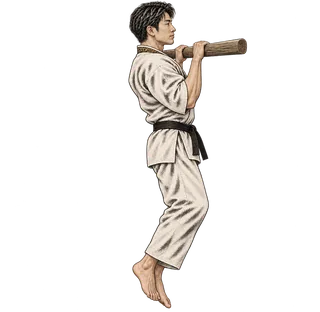
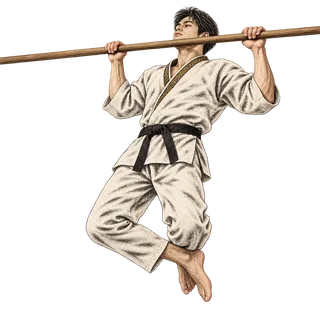
v0.16.5: 懸垂の絵を差し替え、御札・巻物を絵に、休息画面に夜の寺の背景
Claude-Session: https://claude.ai/code/session_01KcNjAAMXczDP8kvpzxopU7

Changed region(s): [[0.0, 0.0, 1.0, 1.0]]

diff --git a/index.html b/index.html
@@ -348,7 +348,7 @@
   .tbtn:active{ transform:scale(.94); }
   .done-today{ text-align:center;padding:14px;border-radius:16px;background:rgba(134,181,115,.12);border:1px solid rgba(134,181,115,.35);color:var(--matsu);font-weight:700;font-size:14px; }
   /* 休息アニメ */
-  #restFx{ position:fixed;inset:0;z-index:88;display:none;flex-direction:column;align-items:center;justify-content:center;gap:20px;background:radial-gradient(circle at 50% 40%,#1a2228,#101418 75%);color:var(--washi); }
+  #restFx{ position:fixed;inset:0;z-index:88;display:none;flex-direction:column;align-items:center;justify-content:flex-end;gap:18px;padding:0 24px calc(48px + env(safe-area-inset-bottom));background:linear-gradient(180deg,rgba(10,12,16,0) 40%,rgba(10,12,16,.85) 70%,#0a0c10 100%),url(images/rest.jpg) center top/cover,#0a0c10;color:var(--washi); }
   #restFx .moon{ font-size:78px;animation:floaty 4s ease-in-out infinite; }
   @keyframes floaty{ 0%,100%{transform:translateY(0);}50%{transform:translateY(-12px);} }
   #restFx .zzz{ font-family:var(--serif);font-size:26px;font-weight:800;letter-spacing:.2em;color:var(--ai); }
@@ -743,12 +743,15 @@ let hasNewReact=true; // 未確認の通知があるか
 // 印：月別（アプリ開始月から自動追加、クリアしたらカラー）※recompute()で記録から作る
 let STAMPS=[];
 // 巻物：取得分だけ表示、条件は最初から見える
+// 御札・巻物の絵（文字の大きさに合わせて表示）
+const FUDA=`<img src="images/fuda.webp" alt="御札" style="width:1em;height:1em;object-fit:contain;vertical-align:-.15em">`;
+const MAKI=`<img src="images/makimono.webp" alt="巻物" style="width:1em;height:1em;object-fit:contain;vertical-align:-.15em">`;
 const SCROLLS=[
-  {em:'📜',l:'初学の巻',  got:false, cond:'はじめて記録した'},
-  {em:'📜',l:'百錬の巻',  got:false, cond:'通算100回 修行する'},
-  {em:'📜',l:'継続の巻',  got:false, cond:'7日連続で修行した'},
-  {em:'📜',l:'全種の巻',  got:false, cond:'六種の修行を全種目記録した'},
-  {em:'📜',l:'精進の巻',  got:false, cond:'30日連続で修行した'},
+  {em:MAKI,l:'初学の巻',  got:false, cond:'はじめて記録した'},
+  {em:MAKI,l:'百錬の巻',  got:false, cond:'通算100回 修行する'},
+  {em:MAKI,l:'継続の巻',  got:false, cond:'7日連続で修行した'},
+  {em:MAKI,l:'全種の巻',  got:false, cond:'六種の修行を全種目記録した'},
+  {em:MAKI,l:'精進の巻',  got:false, cond:'30日連続で修行した'},
   {em:'🗝',l:'秘伝の巻',  got:false, cond:'徳を10,000 積む', secret:true},
 ];
 
@@ -764,7 +767,7 @@ function checkStreakFreeze(){
   freezePromptShown=true;
   if(fudaCount>0){
     modal(`<div class="sheet card-c" style="text-align:center">
-      <div style="font-size:40px">🪧</div>
+      <div style="font-size:40px">${FUDA}</div>
       <h3>御札を使いますか？</h3>
       <p class="sub" style="text-align:center">昨日は修行していないようです。御札を使うと連続記録の途切れを防げます。<br>手持ちの御札：${fudaCount}枚</p>
       <button class="btnprime" onclick="useFudaForFreeze()">はい（御札を使う）</button>
@@ -917,7 +920,7 @@ function microGoalCard(){
 }
 
 let currentAvatar='🧘';
-const APP_VERSION='v0.16.4';
+const APP_VERSION='v0.16.5';
 // 六種の修行のカテゴリ色（すごろくの円グラフ配色に使用）
 const CAT_COLORS={ push:'#D55E00', pull:'#E69F00', squat:'#56B4E9', core:'#F0E442', bridge:'#0072B2', hand:'#009E73' };
 let SUM=EX.reduce((a,e)=>a+e.cur,0);
@@ -1196,7 +1199,7 @@ function viewHome(){
     steps+=`<div class="mstep ${cls}"><div class="rail"></div>${flag}<div class="node" style="${nodeStyle}"${nodeClick}>${nodeInner}</div></div>`;
   }
 
-  const banners=`${freezeUsedToday?`<div style="text-align:center;font-size:12px;color:var(--kin);background:rgba(217,172,82,.1);border:1px solid rgba(217,172,82,.3);border-radius:12px;padding:8px;margin-bottom:10px">🪧 御札を使い、連続記録を繋いだ</div>`:''}
+  const banners=`${freezeUsedToday?`<div style="text-align:center;font-size:12px;color:var(--kin);background:rgba(217,172,82,.1);border:1px solid rgba(217,172,82,.3);border-radius:12px;padding:8px;margin-bottom:10px">${FUDA} 御札を使い、連続記録を繋いだ</div>`:''}
   ${(missedYesterday && !freezeUsedToday && fudaCount<=0)?`<div style="text-align:center;font-size:12px;color:var(--shu2);background:rgba(229,72,46,.1);border:1px solid rgba(229,72,46,.3);border-radius:12px;padding:8px;margin-bottom:10px" onclick="nav('achieve')">⚠ 昨日は修行しておらず、御札もありません（押下で功績画面へ）</div>`:''}`;
   const todayBtns=trainedToday
     ? `<div class="today-fixed"><div class="done-today">✓ 今日の修行は済んだ</div></div>`
@@ -1305,7 +1308,6 @@ function restToday(){
   const fx=document.getElementById('restFx');
   fx.style.display='flex';
   fx.innerHTML=`
-    <div class="moon">🌙</div>
     <div class="zzz">休 息</div>
     <div class="rsub">体を癒すのも修行のうち。<br>明日、また山に向かおう。</div>
     <button class="btnghost" style="width:auto;padding:12px 28px;margin-top:10px" onclick="document.getElementById('restFx').style.display='none'">閉じる</button>`;
@@ -1511,7 +1513,7 @@ function viewAchieve(){
   <div style="padding:14px;border-radius:12px;background:var(--glass);border:1px solid var(--line);margin-bottom:4px">
     <p style="font-size:13px;margin:0 0 10px">徳を積むと、師匠より御札を授かる</p>
     <div onclick="openFudaExchange()" style="text-align:center;padding:14px;border-radius:10px;border:1px solid var(--line);cursor:pointer;max-width:160px">
-      <div style="font-size:26px">🪧</div>
+      <div style="font-size:26px">${FUDA}</div>
       <div style="font-size:13px;margin-top:6px;font-weight:700">御札</div>
       <div style="font-size:12px;color:var(--kin);margin-top:2px">30徳</div>
       <div style="font-size:11px;color:var(--sub);margin-top:4px">所有数: ${fudaCount}</div>
@@ -1527,14 +1529,14 @@ function viewAchieve(){
   <div class="h">巻物</div>
   <div class="relics">
     ${SCROLLS.filter(r=>r.got).map(r=>`<div class="relic got" onclick="tapFlash(this,()=>scrollInfo(${SCROLLS.indexOf(r)}))"><div class="em">${r.em}</div><div>${r.l}</div></div>`).join('')}
-    ${SCROLLS.filter(r=>!r.got).map(r=>`<div class="relic locked" onclick="tapFlash(this,()=>scrollInfo(${SCROLLS.indexOf(r)}))"><div class="em" style="opacity:.4">${r.secret?'🗝':'📜'}</div><div>${r.secret?'？？？':r.l}</div></div>`).join('')}
+    ${SCROLLS.filter(r=>!r.got).map(r=>`<div class="relic locked" onclick="tapFlash(this,()=>scrollInfo(${SCROLLS.indexOf(r)}))"><div class="em" style="opacity:.4">${r.secret?'🗝':MAKI}</div><div>${r.secret?'？？？':r.l}</div></div>`).join('')}
   </div>`;
 }
 
 /* ══ 御札：交換フロー ══ */
 function openFudaExchange(){
   modal(`<div class="sheet card-c" style="text-align:center">
-    <div style="font-size:40px">🪧</div>
+    <div style="font-size:40px">${FUDA}</div>
     <h3>御札と交換しますか？</h3>
     <p class="sub" style="text-align:center">御札はストリークの途切れを防ぐお守り。<br>自分にも使え、門下生に送ることもできる。<br>30徳と交換して師匠より授かります。<br>現在の徳：${toku}　／　所有数：${fudaCount}枚</p>
     <button class="btnprime" onclick="doFudaExchange()">はい（30徳で交換）</button>
@@ -1599,7 +1601,7 @@ function viewFriends(){
   ${FRIENDS.map((f,idx)=>`<div class="friend" onclick="tapFlash(this,()=>friendCompare(${idx}))">
     <div class="av">${f.em}</div>
     <div><div class="nm">${f.name}</div><div class="sk">🔥 修行${f.streak}日目${f.trained?' ✓今日済み':' 未トレーニング'}</div>
-    ${!f.trained?`<div onclick="event.stopPropagation();openSendFuda(${idx})" style="margin-top:6px;font-size:12px;color:var(--kin);font-weight:700;cursor:pointer">🪧 御札を送る ›</div>`:''}
+    ${!f.trained?`<div onclick="event.stopPropagation();openSendFuda(${idx})" style="margin-top:6px;font-size:12px;color:var(--kin);font-weight:700;cursor:pointer">${FUDA} 御札を送る ›</div>`:''}
     </div>
     <div class="chev">›</div>
   </div>`).join('')}`;
@@ -1609,7 +1611,7 @@ function viewFriends(){
 function openSendFuda(idx){
   const f=FRIENDS[idx];
   modal(`<div class="sheet card-c" style="text-align:center">
-    <div style="font-size:40px">🪧</div>
+    <div style="font-size:40px">${FUDA}</div>
     <h3>${f.name} に御札を送りますか？</h3>
     <p class="sub" style="text-align:center">今日はまだ修行していないようです。御札を送るとストリークの途切れを防げます。<br>手持ちの御札：${fudaCount}枚</p>
     ${fudaCount>0?`<button class="btnprime" onclick="sendFuda(${idx},'stock')">手持ちの御札を送る</button>`:''}
@@ -2353,7 +2355,7 @@ function relicInfo(type,idx){
   const r=RELICS[idx];
   const typeLabel=type==='in'?'印（月次課業達成）':'巻物（隠し条件）';
   modal(`<div class="sheet card-c">
-    <div style="text-align:center;font-size:40px;margin-bottom:6px">${r.got?r.em:(type==='in'?'🏵':'📜')}</div>
+    <div style="text-align:center;font-size:40px;margin-bottom:6px">${r.got?r.em:(type==='in'?'🏵':MAKI)}</div>
     <h3 style="text-align:center">${r.got?r.l:typeLabel}</h3>
     <p class="sub" style="text-align:center">取得条件</p>
     <p style="text-align:center;font-size:15px;margin:0 0 4px">${r.got?r.cond:'取得すると明らかになります'}</p>
@@ -2374,7 +2376,7 @@ function stampInfo(month, got){
 function scrollInfo(idx){
   const r=SCROLLS[idx];
   modal(`<div class="sheet card-c">
-    <div style="text-align:center;font-size:44px;margin-bottom:6px;opacity:${r.got?1:.4}">📜</div>
+    <div style="text-align:center;font-size:44px;margin-bottom:6px;opacity:${r.got?1:.4}">${MAKI}</div>
     <h3 style="text-align:center">${r.got?r.l:'未取得の巻物'}</h3>
     ${r.got
       ? `<p class="sub" style="text-align:center">取得条件</p>
